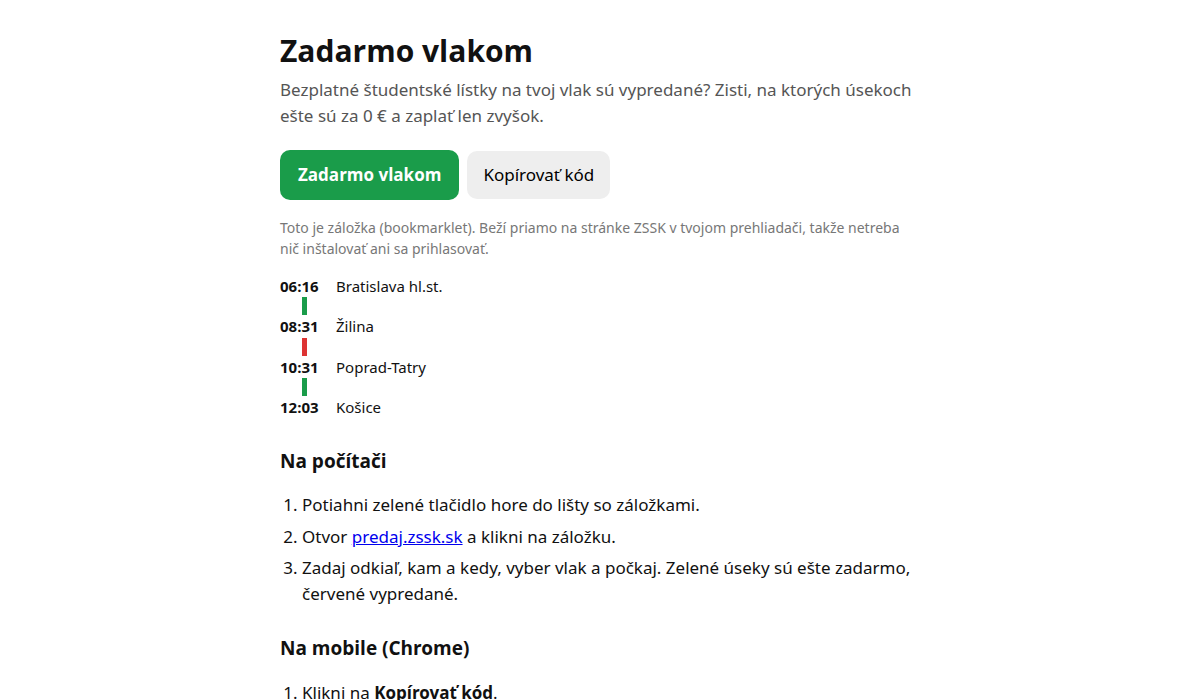
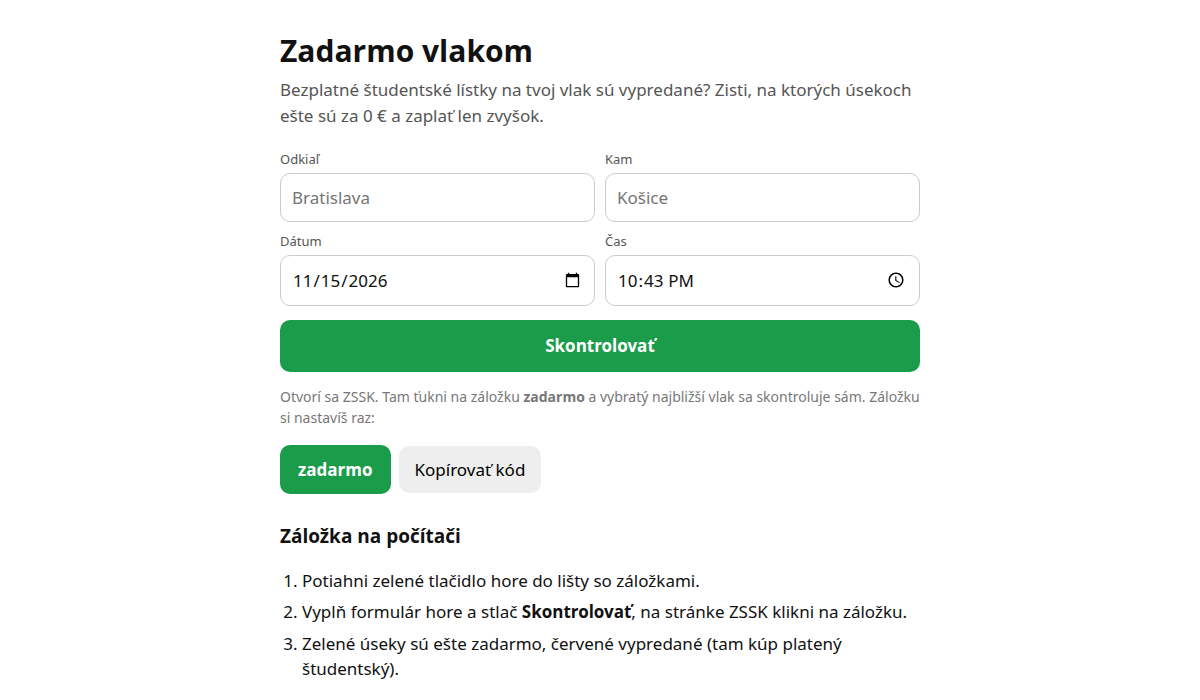
Zadarmo: from/to/time form, auto-pick closest direct train, autorun via hash

diff --git a/zadarmo/run.js b/zadarmo/run.js
@@ -10,12 +10,16 @@
   const norm = s => (s || '').replace(/\s+/g, ' ').trim();
   const saved = JSON.parse(localStorage.getItem('zadarmo') || '{}');
   const save = () => localStorage.setItem('zadarmo', JSON.stringify(st));
-  const today = new Date();
+  const now = new Date(), pad = n => String(n).padStart(2, '0');
+  const hp = new URLSearchParams(location.hash.slice(1));   // #from=..&to=..&date=..&time=.. from the landing page
   const st = {
-    from: saved.from || '', to: saved.to || '',
-    date: today.toISOString().slice(0, 10), time: saved.time || '07:00',
+    from: hp.get('from') || saved.from || '', to: hp.get('to') || saved.to || '',
+    date: hp.get('date') || `${now.getFullYear()}-${pad(now.getMonth() + 1)}-${pad(now.getDate())}`,
+    time: hp.get('time') || `${pad(now.getHours())}:${pad(now.getMinutes())}`,
     age: saved.age || '204', discount: saved.discount || '628',
   };
+  const autoRun = !!(hp.get('from') && hp.get('to'));
+  if (autoRun) history.replaceState(null, '', location.pathname);
 
   // ---------- UI ----------
   const host = document.createElement('div');
@@ -67,12 +71,13 @@
       <div><label>Kam</label><input id="to" list="sl" autocomplete="off"></div></div>
       <datalist id="sl"></datalist>
       <div class="row"><div><label>Dátum</label><input id="date" type="date"></div>
-      <div><label>Odchod od</label><input id="time" type="time"></div></div>
+      <div><label>Čas</label><input id="time" type="time"></div></div>
+      <details style="margin-top:8px"><summary class="muted">Vek a zľava</summary>
       <div class="row"><div><label>Vek</label><select id="age">${AGES.map(([v, t]) => `<option value="${v}">${t}</option>`).join('')}</select></div>
-      <div><label>Zľava</label><select id="discount">${DISCOUNTS.map(([v, t]) => `<option value="${v}">${t}</option>`).join('')}</select></div></div>
-      <button id="go">Nájsť vlaky</button>
+      <div><label>Zľava</label><select id="discount">${DISCOUNTS.map(([v, t]) => `<option value="${v}">${t}</option>`).join('')}</select></div></div></details>
+      <button id="go">Skontrolovať</button>
       <div class="muted" style="margin-top:8px">Počas kontroly nenakupuj na ZSSK v inom okne, kontrola na chvíľu používa ten istý košík.</div>
-      <div class="log" id="log">${msg ? esc(msg) : ''}</div><div id="list"></div>`;
+      <div class="log" id="log">${msg ? esc(msg) : ''}</div>`;
     for (const k of ['from', 'to', 'date', 'time', 'age', 'discount']) {
       const el = root.getElementById(k); el.value = st[k];
       el.oninput = el.onchange = () => { st[k] = el.value; save(); };
@@ -211,30 +216,33 @@
   }
 
   // ---------- flow ----------
-  let conns = [];
+  // Station names must be ZSSK's exact ones; take the best autocomplete hit for whatever was typed.
+  const fold = x => norm(x).normalize('NFD').replace(/[\u0300-\u036f]/g, '').toLowerCase();
+  async function resolveStation(name) {
+    try {
+      const list = JSON.parse(await (await fetch('/autocompleteStations/' + encodeURIComponent(name))).text());
+      return list.find(x => fold(x) === fold(name)) || list[0] || name;
+    } catch (e) { return name; }
+  }
+
   async function findTrains() {
     if (!st.from || !st.to) return log('Vyplň Odkiaľ a Kam.');
     const btn = root.getElementById('go'); btn.disabled = true;
-    log('Hľadám vlaky…');
+    log('Hľadám najbližší vlak…');
     try {
-      conns = await search(st.from, st.to, st.time);
-      const list = root.getElementById('list');
-      if (!conns.length) { log('ZSSK nič nenašla. Skontroluj názvy staníc (vyber z ponuky).'); return; }
-      log('Vyber vlak:');
-      list.innerHTML = conns.map((c, i) => {
-        const l = c.legs[0], last = c.legs[c.legs.length - 1];
-        const ok = c.legs.length === 1;
-        return `<div class="conn ${ok ? '' : 'off'}" data-i="${i}"><div><b>${esc(l.dep)}</b> ${esc(l.from)} → <b>${esc(last.arr)}</b> ${esc(last.to)}</div>
-          <div class="muted">${ok ? esc(l.train) : 's prestupom'}</div></div>`;
-      }).join('');
-      list.querySelectorAll('.conn:not(.off)').forEach(el => el.onclick = () => analyze(conns[+el.dataset.i]));
+      const [from, to] = await Promise.all([resolveStation(st.from), resolveStation(st.to)]);
+      const conns = await search(from, to, st.time);
+      // results start at the chosen time, so the first direct one is the closest departure
+      const c = conns.find(c => c.legs.length === 1);
+      if (!c) { log(conns.length ? 'Najbližšie spojenia sú len s prestupom, skús iný čas.' : 'ZSSK nič nenašla. Skontroluj stanice.'); return; }
+      analyze(c);
     } catch (e) { log('Chyba: ' + e.message); }
-    finally { btn.disabled = false; }
+    finally { if (btn.isConnected) btn.disabled = false; }
   }
 
   async function analyze(c) {
     const train = c.legs[0].train;
-    app.innerHTML = `<h1>${esc(train)}</h1><div class="sub">${esc(c.legs[0].from)} → ${esc(c.legs[0].to)}, ${esc(fmtDate(st.date))}</div>
+    app.innerHTML = `<h1>${esc(c.legs[0].from)} → ${esc(c.legs[0].to)}</h1><div class="sub">${esc(train)}, odchod ${esc(c.legs[0].dep)}, ${esc(fmtDate(st.date))}</div>
       <div class="log" id="log">Načítavam stanice…</div><ul class="stops" id="stops"></ul><div class="plan" id="plan"></div>
       <button class="ghost" id="back">Späť</button>`;
     root.getElementById('back').onclick = () => { stop = true; formView(); };
@@ -298,4 +306,5 @@
   }
 
   formView();
+  if (autoRun) findTrains();
 })();

diff --git a/zadarmo/index.html b/zadarmo/index.html
@@ -33,6 +33,9 @@
   .demo i{margin-left:22px;border-left:5px solid #1a9c4a;height:18px} .demo i.r{border-color:#d33}
   code{background:#f3f3f3;padding:1px 5px;border-radius:4px;font-size:14px;word-break:break-all}
   .muted{color:#777;font-size:14px}
+  form{margin:0 0 6px} .row{display:flex;gap:10px} .row label{flex:1;display:block;font-size:13px;color:#555;margin:0 0 10px}
+  form input{display:block;width:100%;box-sizing:border-box;font:inherit;font-size:17px;color:#111;padding:11px;border:1px solid #ccc;border-radius:10px;margin-top:3px;background:#fff}
+  button.go{margin:4px 0 0;width:100%;background:#1a9c4a;color:#fff;font-weight:600;padding:13px}
 </style>
 </head>
 <body>
@@ -40,28 +43,26 @@
 <h1>Zadarmo vlakom</h1>
 <p class="sub">Bezplatné študentské lístky na tvoj vlak sú vypredané? Zisti, na ktorých úsekoch ešte sú za 0 € a zaplať len zvyšok.</p>
 
-<p><a class="bm" id="bm" href="#">Zadarmo vlakom</a><button id="copy">Kopírovať kód</button></p>
-<p class="muted">Toto je záložka (bookmarklet). Beží priamo na stránke ZSSK v tvojom prehliadači, takže netreba nič inštalovať ani sa prihlasovať.</p>
+<form id="f">
+  <div class="row"><label>Odkiaľ<input name="from" required placeholder="Bratislava"></label><label>Kam<input name="to" required placeholder="Košice"></label></div>
+  <div class="row"><label>Dátum<input name="date" type="date" required></label><label>Čas<input name="time" type="time" required></label></div>
+  <button class="go">Skontrolovať</button>
+</form>
+<p class="muted">Otvorí sa ZSSK. Tam ťukni na záložku <b>zadarmo</b> a najbližší vlak sa skontroluje sám. Záložku si nastavíš raz:</p>
+<p><a class="bm" id="bm" href="#">zadarmo</a><button id="copy">Kopírovať kód</button></p>
 
-<div class="demo">
-  <span><b>06:16</b>Bratislava hl.st.</span><i></i>
-  <span><b>08:31</b>Žilina</span><i class="r"></i>
-  <span><b>10:31</b>Poprad-Tatry</span><i></i>
-  <span><b>12:03</b>Košice</span>
-</div>
-
-<h2>Na počítači</h2>
+<h2>Záložka na počítači</h2>
 <ol>
   <li>Potiahni zelené tlačidlo hore do lišty so záložkami.</li>
-  <li>Otvor <a href="https://predaj.zssk.sk/search">predaj.zssk.sk</a> a klikni na záložku.</li>
-  <li>Zadaj odkiaľ, kam a kedy, vyber vlak a počkaj. Zelené úseky sú ešte zadarmo, červené vypredané (tam kúp platený študentský).</li>
+  <li>Vyplň formulár hore a stlač <b>Skontrolovať</b>, na stránke ZSSK klikni na záložku.</li>
+  <li>Zelené úseky sú ešte zadarmo, červené vypredané (tam kúp platený študentský).</li>
 </ol>
 
-<h2>Na mobile (Chrome)</h2>
+<h2>Záložka na mobile (Chrome)</h2>
 <ol>
   <li>Klikni na <b>Kopírovať kód</b>.</li>
   <li>Pridaj si ľubovoľnú stránku do záložiek, potom záložku uprav: názov <b>zadarmo</b>, do adresy vlož skopírovaný kód.</li>
-  <li>Otvor <a href="https://predaj.zssk.sk/search">predaj.zssk.sk</a>, do adresného riadku napíš <b>zadarmo</b> a ťukni na záložku.</li>
+  <li>Vyplň formulár hore a stlač <b>Skontrolovať</b>. Na stránke ZSSK napíš do adresného riadku <b>zadarmo</b> a ťukni na záložku.</li>
 </ol>
 
 <h2>Ako to funguje</h2>
@@ -70,9 +71,20 @@
 </main>
 <script>
   const code = "javascript:(function(){if(location.host!='predaj.zssk.sk'){location='https://predaj.zssk.sk/search';return}var s=document.createElement('script');s.src='https://shirley-claw.github.io/zadarmo/run.js?'+Date.now();document.body.appendChild(s)})()";
+  const f = document.getElementById('f'), now = new Date(), pad = n => String(n).padStart(2, '0');
+  const last = JSON.parse(localStorage.getItem('zadarmo-form') || '{}');
+  f.from.value = last.from || ''; f.to.value = last.to || '';
+  f.date.value = `${now.getFullYear()}-${pad(now.getMonth() + 1)}-${pad(now.getDate())}`;
+  f.time.value = `${pad(now.getHours())}:${pad(now.getMinutes())}`;
+  f.onsubmit = e => {
+    e.preventDefault();
+    const q = { from: f.from.value.trim(), to: f.to.value.trim(), date: f.date.value, time: f.time.value };
+    localStorage.setItem('zadarmo-form', JSON.stringify({ from: q.from, to: q.to }));
+    location.href = 'https://predaj.zssk.sk/search#' + new URLSearchParams(q);
+  };
   const bm = document.getElementById('bm');
   bm.href = code;
-  bm.onclick = e => { e.preventDefault(); alert('Túto záložku potiahni do lišty so záložkami a spusti ju na stránke predaj.zssk.sk.'); };
+  bm.onclick = e => { e.preventDefault(); alert('Túto záložku potiahni do lišty so záložkami. Spúšťa sa na stránke predaj.zssk.sk.'); };
   document.getElementById('copy').onclick = async () => {
     try { await navigator.clipboard.writeText(code); } catch (e) { prompt('Skopíruj:', code); return; }
     document.getElementById('copy').textContent = 'Skopírované ✓';
